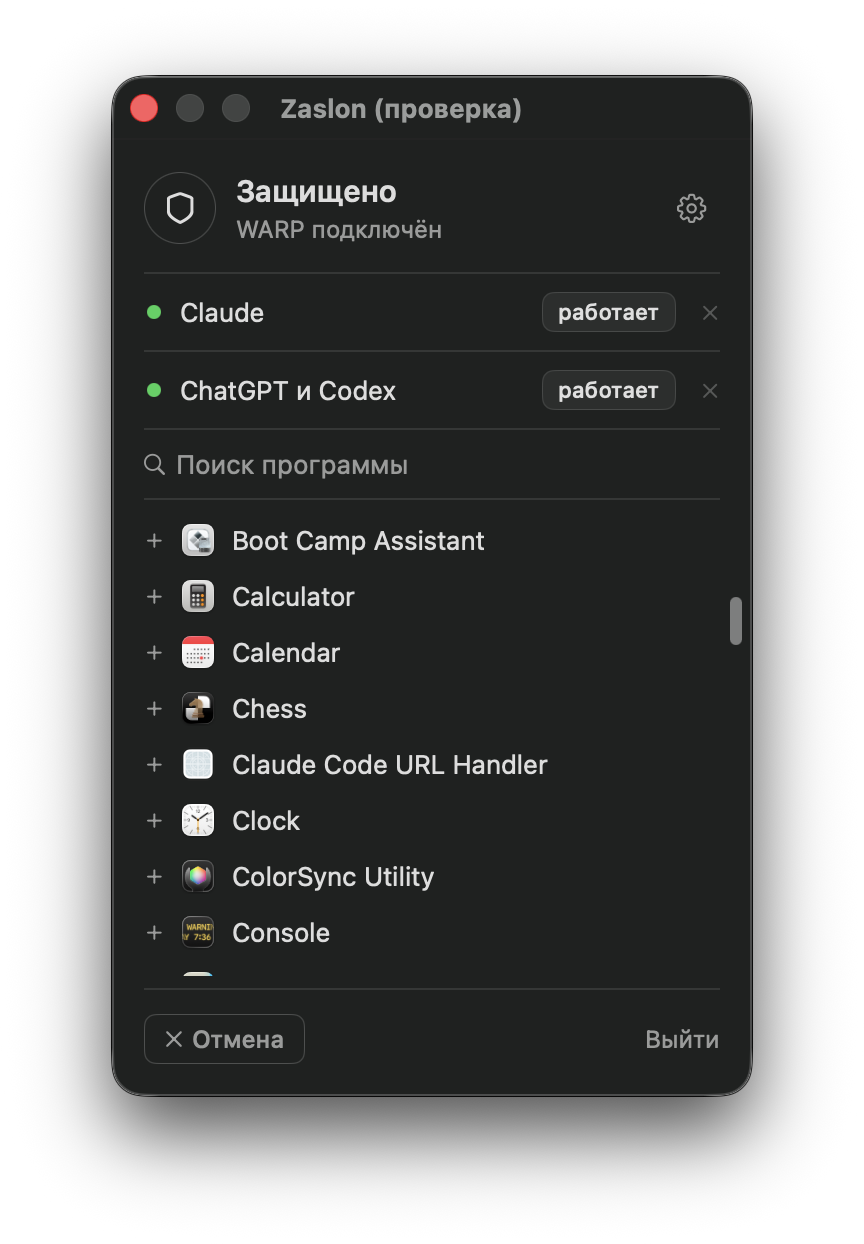
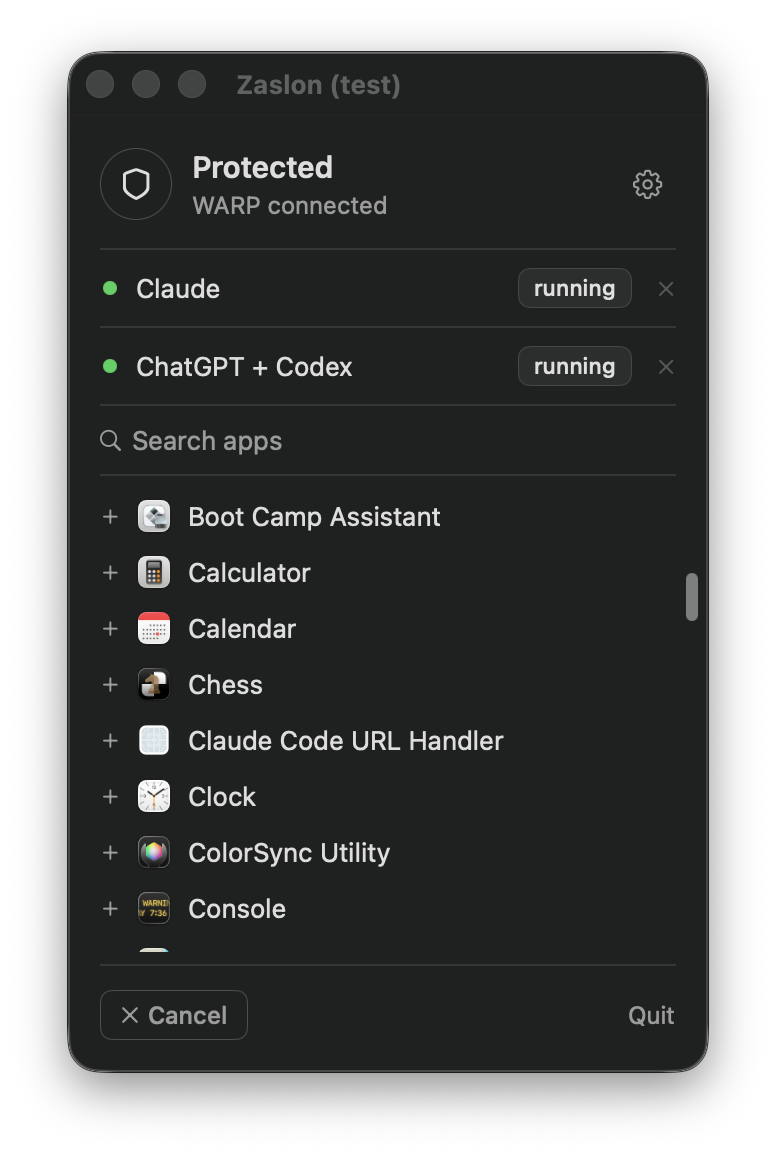
Add English and Russian, statuses from real connections, gear settings (#1)
* Add English and Russian, statuses from real connections, gear settings

- Language: English or Russian, chosen in the settings; starts from the system language.
- One status per app, read from its open connections: running, outside VPN, not working.
- The gate rule is written when ChatGPT or Claude is added and removed with the entry.
- Settings behind a gear; the switch is drawn by hand so it looks the same in both themes.
- README: English interface, every state pictured in the light and the dark theme.

* Keep the hand-drawn switch reachable from the keyboard

The switch is a button now, so keyboard focus and Space flip it, and it
is presented to assistive tools as an ordinary switch.

* Give the default ChatGPT entry a name that needs no translation

The name was translated once, when the entry was created, and then saved,
so it stayed in the old language after a switch. It is "ChatGPT + Codex" now.

---------

Changed region(s): [[0.0619, 0.0311, 0.9278, 0.9654], [0.6495, 0.218, 0.8041, 0.3426], [0.7423, 0.8097, 0.8351, 0.8408]]

diff --git a/Sources/Zaslon/App.swift b/Sources/Zaslon/App.swift
@@ -81,12 +81,15 @@ func relaunchSoon() {
     if bench { watchStalls() }
     let catalog = Catalog.shared
     catalog.refresh()
+    if let ui = ProcessInfo.processInfo.environment["UI"] { Lang.shared.code = ui } // UI=en|ru: the language of the test window, not saved
     let g = Guard(live: false)
     g.signal = { _, _ in }
     g.update(true)
-    let window = NSWindow(contentViewController: NSHostingController(rootView: Panel(g: g)))
+    let content = NSHostingController(rootView: Panel(g: g))
+    // For a picture the window must look the same on every run, so it never becomes the active one.
+    let window = ProcessInfo.processInfo.environment["SHOT"] != nil ? Still(contentViewController: content) : NSWindow(contentViewController: content)
     window.styleMask = [.titled, .closable]
-    window.title = "Zaslon (проверка)"
+    window.title = t("Zaslon (проверка)", "Zaslon (test)")
     window.setFrameTopLeftPoint(NSPoint(x: 60, y: (NSScreen.main?.visibleFrame.maxY ?? 800) - 60))
     window.orderFrontRegardless()
     func scrollView(in view: NSView) -> NSScrollView? { view as? NSScrollView ?? view.subviews.lazy.compactMap(scrollView).first }
@@ -116,7 +119,7 @@ func relaunchSoon() {
             after(2.6) { withAnimation(.snappy(duration: 0.3)) { g.enabled = true } }
         }
         Chip.showHover = env["HOVER"] != nil
-        Gate.shared.look()
+        Gate.shared.ruled = Set(Gate.services.map(\.app)) // the test window shows the normal state, not this Mac's facts of the moment
         if mode == "--picker" {
             catalog.picking = true
             after(1.5) { scroll(400) }
@@ -211,17 +214,17 @@ func watchStalls() {
 
 final class Delegate: NSObject, NSApplicationDelegate {
     func applicationDidFinishLaunching(_: Notification) {
-        Catalog.shared.keepAutostart() // also warms the app list and icons, so the first "Добавить" is instant
+        Catalog.shared.keepAutostart() // also warms the app list and icons, so the first "Add" is instant
         TunnelProxy.shared.start()
         Gate.shared.start()
         Gate.shared.watch()
         guard !UserDefaults.standard.bool(forKey: "askedLogin") else { return }
         UserDefaults.standard.set(true, forKey: "askedLogin")
         let a = NSAlert()
-        a.messageText = "Запускать Zaslon при входе в систему?"
-        a.informativeText = "Без автозапуска защита не работает, пока вы не откроете программу сами. Поменять можно в окне программы."
-        a.addButton(withTitle: "Запускать")
-        a.addButton(withTitle: "Не сейчас")
+        a.messageText = t("Запускать Zaslon при входе в систему?", "Start Zaslon at login?")
+        a.informativeText = t("Без автозапуска защита не работает, пока вы не откроете программу сами. Поменять можно в окне программы.", "Without autostart the protection does not work until you open the app yourself. You can change this in the app's window.")
+        a.addButton(withTitle: t("Запускать", "Start at login"))
+        a.addButton(withTitle: t("Не сейчас", "Not now"))
         NSApp.activate(ignoringOtherApps: true)
         if a.runModal() == .alertFirstButtonReturn { Catalog.shared.setLogin(true) }
     }
@@ -538,6 +541,45 @@ struct SoftTrack: NSViewRepresentable {
 
 let corner: CGFloat = 6 // one rounding for every button and row
 
+/// The system's small switch, drawn by hand. The system one turns grey whenever its window is not the active one,
+/// so it looked switched off in pictures and differed between themes.
+struct Switch: ToggleStyle {
+    func makeBody(configuration: Configuration) -> some View {
+        // A button, so keyboard focus and Space still flip it; to VoiceOver it stays an ordinary switch.
+        Button { configuration.isOn.toggle() } label: {
+            Capsule().fill(configuration.isOn ? Color.green : Color.primary.opacity(0.18))
+                .frame(width: 32, height: 18)
+                .overlay(alignment: configuration.isOn ? .trailing : .leading) {
+                    Circle().fill(.white).shadow(color: .black.opacity(0.25), radius: 1, y: 0.5).padding(2)
+                }
+                .animation(.snappy(duration: 0.18), value: configuration.isOn)
+                .contentShape(Capsule())
+        }
+        .buttonStyle(.plain)
+        .accessibilityRepresentation { Toggle(isOn: configuration.$isOn) { configuration.label } }
+    }
+}
+
+/// A window that never becomes active: pictures of it come out the same whatever else is on screen.
+final class Still: NSWindow {
+    override var canBecomeKey: Bool { false }
+    override var canBecomeMain: Bool { false }
+}
+
+/// The interface language: Russian or English. Every string is written in place, as `t("русский", "English")`.
+final class Lang: ObservableObject {
+    static let shared = Lang()
+    /// Starts from the system language; a choice made in the settings is remembered.
+    @Published var code = UserDefaults.standard.string(forKey: "language") ?? (Locale.preferredLanguages.first?.hasPrefix("ru") == true ? "ru" : "en")
+
+    func choose(_ code: String) {
+        self.code = code
+        UserDefaults.standard.set(code, forKey: "language")
+    }
+}
+
+func t(_ ru: String, _ en: String) -> String { Lang.shared.code == "ru" ? ru : en }
+
 /// The shared look of a button or row: a rounded box that fills in under the mouse.
 struct Chip: ViewModifier {
     static var showHover = false // HOVER=1 in the test window, to take a picture of the hover look
@@ -624,11 +666,12 @@ struct ShieldButton: View {
 
 struct QuitButton: View {
     let action: () -> Void
+    @ObservedObject private var lang = Lang.shared
     @State private var hover = false
 
     var body: some View {
         Button(action: action) {
-            Text("Выйти").foregroundStyle(hover ? Color.red : .secondary).padding(.vertical, 5).contentShape(Rectangle())
+            Text(t("Выйти", "Quit")).foregroundStyle(hover ? Color.red : .secondary).padding(.vertical, 5).contentShape(Rectangle())
         }
         .buttonStyle(.plain).onHover { hover = $0 }
     }
@@ -655,6 +698,7 @@ struct Panel: View {
     @ObservedObject var g: Guard
     @ObservedObject var catalog: Catalog
     @ObservedObject var gate = Gate.shared
+    @ObservedObject var lang = Lang.shared // every string below is read again when the language changes
     @State private var settings = ProcessInfo.processInfo.environment["GEAR"] != nil // GEAR=1: open in the test window
     @FocusState private var searching: Bool
 
@@ -666,7 +710,7 @@ struct Panel: View {
     var body: some View {
         VStack(alignment: .leading, spacing: 0) {
             HStack(spacing: 10) {
-                ShieldButton(g: g).help(g.enabled ? "Выключить защиту" : "Включить защиту")
+                ShieldButton(g: g).help(g.enabled ? t("Выключить защиту", "Switch protection off") : t("Включить защиту", "Switch protection on"))
                 VStack(alignment: .leading, spacing: 2) {
                     Text(title).font(.system(size: 15, weight: .semibold)).contentTransition(.opacity)
                     HStack(spacing: 0) {
@@ -681,7 +725,7 @@ struct Panel: View {
                         .foregroundStyle(settings ? HierarchicalShapeStyle.primary : .secondary)
                         .frame(width: 28, height: 28).modifier(Chip())
                 }
-                .buttonStyle(.plain).help(settings ? "Скрыть настройки" : "Настройки")
+                .buttonStyle(.plain).help(settings ? t("Скрыть настройки", "Hide settings") : t("Настройки", "Settings"))
             }
             .padding(.bottom, 14)
             Divider()
@@ -699,20 +743,20 @@ struct Panel: View {
                         .frame(width: 7, height: 7).frame(width: 10)
                     Text(e.name).font(.system(size: 13))
                     Spacer()
-                    StatusPill(text: off ? "выключена" : unruled ? "не работает" : !up ? "не запущен" : g.freezing ? "на паузе" : past ? "мимо VPN" : "работает") {
+                    StatusPill(text: off ? t("выключена", "off") : unruled ? t("не работает", "not working") : !up ? t("не запущен", "not running") : g.freezing ? t("на паузе", "frozen") : past ? t("мимо VPN", "outside VPN") : t("работает", "running")) {
                         if let service, unruled, !off {
                             gate.setRules(true, app: service) // asks for the admin password
                         } else if let i = g.entries.firstIndex(where: { $0.id == e.id }) {
                             g.entries[i].off = !off
                         }
                     }
-                    .help(off ? "Включить защиту для этой программы" : unruled ? "Серверы этой программы ещё не закрыты воротами VPN. Нажмите и введите пароль администратора." : "Выключить защиту для этой программы")
+                    .help(off ? t("Включить защиту для этой программы", "Switch protection on for this app") : unruled ? t("Серверы этой программы ещё не закрыты воротами VPN. Нажмите и введите пароль администратора.", "This app's servers are not behind the VPN gate yet. Click and enter the admin password.") : t("Выключить защиту для этой программы", "Switch protection off for this app"))
                     RemoveButton {
                         let drop = { g.entries.removeAll { $0.id == e.id } }
                         // The gate's rule leaves with the entry; if the password is refused, both stay.
                         if let service, gate.ruled.contains(service) { gate.setRules(false, app: service) { if $0 { drop() } } } else { drop() }
                     }
-                    .help("Убрать из списка")
+                    .help(t("Убрать из списка", "Remove from the list"))
                 }
                 .padding(.vertical, 9)
                 Divider()
@@ -720,10 +764,27 @@ struct Panel: View {
             // Behind the gear: the settings.
             if settings {
                 HStack(spacing: 8) {
-                    Text("Запускать при входе").font(.system(size: 13))
+                    Text(t("Запускать при входе", "Launch at login")).font(.system(size: 13))
                     Spacer()
-                    Toggle("Запускать при входе", isOn: Binding(get: { catalog.login }, set: { catalog.setLogin($0) }))
-                        .labelsHidden().toggleStyle(.switch).controlSize(.small).tint(.green)
+                    Toggle(t("Запускать при входе", "Launch at login"), isOn: Binding(get: { catalog.login }, set: { catalog.setLogin($0) }))
+                        .labelsHidden().toggleStyle(Switch())
+                }
+                .padding(.vertical, 8)
+                Divider()
+                HStack(spacing: 8) {
+                    Text(t("Язык", "Language")).font(.system(size: 13))
+                    Spacer()
+                    // Two plain chips, not a system control: they look the same in both themes and in an inactive window.
+                    HStack(spacing: 4) {
+                        ForEach([("ru", "Русский"), ("en", "English")], id: \.0) { code, name in
+                            Button { lang.choose(code) } label: {
+                                Text(name).font(.system(size: 11, weight: .medium)).padding(.horizontal, 8).padding(.vertical, 3)
+                                    .foregroundStyle(lang.code == code ? HierarchicalShapeStyle.primary : .tertiary)
+                                    .modifier(Chip(rest: lang.code == code ? 0.1 : 0, outline: lang.code == code ? 0.2 : 0.1))
+                            }
+                            .buttonStyle(.plain)
+                        }
+                    }
                 }
                 .padding(.vertical, 8)
                 Divider()
@@ -737,7 +798,7 @@ struct Panel: View {
             VStack(spacing: 0) {
                 HStack(spacing: 6) {
                     Image(systemName: "magnifyingglass").font(.system(size: 11)).foregroundStyle(.secondary).frame(width: 10)
-                    TextField("Поиск программы", text: $catalog.query).textFieldStyle(.plain).font(.system(size: 13)).focused($searching)
+                    TextField(t("Поиск программы", "Search apps"), text: $catalog.query).textFieldStyle(.plain).font(.system(size: 13)).focused($searching)
                 }
                 .padding(.vertical, 9).padding(edge)
                 Divider().padding(edge)
@@ -763,7 +824,7 @@ struct Panel: View {
                 .frame(height: 232)
                 .overlay {
                     if shown.isEmpty {
-                        Text(catalog.apps.isEmpty ? "Загружаю список" : "Ничего не найдено").font(.system(size: 12)).foregroundStyle(.secondary)
+                        Text(catalog.apps.isEmpty ? t("Загружаю список", "Loading the list") : t("Ничего не найдено", "Nothing found")).font(.system(size: 12)).foregroundStyle(.secondary)
                     }
                 }
                 .padding(.vertical, 6)
@@ -781,7 +842,7 @@ struct Panel: View {
                 } label: {
                     HStack(spacing: 4) { // tighter than a Label, which leaves the text far from the icon
                         Image(systemName: catalog.picking ? "xmark" : "plus").font(.system(size: 10, weight: .medium))
-                        Text(catalog.picking ? "Отмена" : "Добавить")
+                        Text(catalog.picking ? t("Отмена", "Cancel") : t("Добавить", "Add"))
                     }
                     .font(.system(size: 12, weight: .medium))
                     .fixedSize().padding(.horizontal, 10).padding(.vertical, 5)
@@ -801,19 +862,19 @@ struct Panel: View {
     }
 
     var title: String {
-        if !g.enabled { return "Защита на паузе" }
+        if !g.enabled { return t("Защита на паузе", "Protection paused") }
         switch g.protected {
-        case nil: return "Проверяю"
-        case true?: return "Защищено"
-        case false?: return "Заморожено"
+        case nil: return t("Проверяю", "Checking")
+        case true?: return t("Защищено", "Protected")
+        case false?: return t("Заморожено", "Frozen")
         }
     }
 
     var subtitle: String {
         switch g.protected {
-        case nil: return "Спрашиваю WARP"
-        case true?: return "WARP подключён"
-        case false?: return g.freezing ? "WARP отключён, " : "WARP отключён, программы работают"
+        case nil: return t("Спрашиваю WARP", "Asking WARP")
+        case true?: return t("WARP подключён", "WARP connected")
+        case false?: return g.freezing ? t("WARP отключён, ", "WARP disconnected, ") : t("WARP отключён, программы работают", "WARP disconnected, apps are running")
         }
     }
 

diff --git a/Sources/Zaslon/Guard.swift b/Sources/Zaslon/Guard.swift
@@ -20,7 +20,7 @@ struct Entry: Codable, Identifiable, Equatable {
 
     static let defaults = [
         Entry(name: "Claude", matches: ["/Applications/Claude.app", "claude"]),
-        Entry(name: "ChatGPT и Codex", matches: ["/Applications/ChatGPT.app", "codex"]),
+        Entry(name: "ChatGPT + Codex", matches: ["/Applications/ChatGPT.app", "codex"]),
     ]
 }
 
@@ -440,9 +440,16 @@ func cover(matches: [String]) {
     let pids = tree(of: Entry(name: "", matches: matches), in: procs)
     for proc in procs where pids.contains(proc.pid) { print(proc.pid, "parent", proc.ppid, proc.path.isEmpty ? "(file gone) " + proc.origin : proc.path) }
     print("\(pids.count) processes")
-    let (links, inside) = (pids.flatMap { connections($0) }, tunnelAddresses())
-    var count: [String: Int] = [:]
-    for link in links { count[(outside(local: link.local, remote: link.remote, tunnel: inside) ? "OUTSIDE the VPN  " : "") + link.local + " -> " + link.remote, default: 0] += 1 }
+    let inside = tunnelAddresses()
+    var (links, count) = (0, [String: Int]())
+    for proc in procs where pids.contains(proc.pid) {
+        for link in connections(proc.pid) {
+            links += 1
+            // An outside connection is named with its process: that is the one to look at.
+            let out = link.local != "0.0.0.0" && link.local != "::" && outside(local: link.local, remote: link.remote, tunnel: inside)
+            count[(out ? "OUTSIDE the VPN  " : "") + link.local + " -> " + link.remote + (out ? "  [\(proc.pid) \((proc.path as NSString).lastPathComponent)]" : ""), default: 0] += 1
+        }
+    }
     for (line, n) in count.sorted(by: { $0.value > $1.value }) { print(String(format: "%4d  ", n) + line) }
-    print("\(links.count) connections, tunnel addresses: \(inside.sorted().joined(separator: ", "))")
+    print("\(links) connections, tunnel addresses: \(inside.sorted().joined(separator: ", "))")
 }

diff --git a/Sources/Zaslon/Gate.swift b/Sources/Zaslon/Gate.swift
@@ -170,7 +170,7 @@ final class Gate: ObservableObject {
         let quoted = shell.replacingOccurrences(of: "\\", with: "\\\\").replacingOccurrences(of: "\"", with: "\\\"")
         let ask = Process()
         ask.executableURL = URL(fileURLWithPath: "/usr/bin/osascript")
-        ask.arguments = ["-e", "do shell script \"\(quoted)\"" + (admin ? " with prompt \"Zaslon меняет правило DNS для ворот VPN.\" with administrator privileges" : "")]
+        ask.arguments = ["-e", "do shell script \"\(quoted)\"" + (admin ? " with prompt \"\(t("Zaslon меняет правило DNS для ворот VPN.", "Zaslon is changing the DNS rule of the VPN gate."))\" with administrator privileges" : "")]
         ask.terminationHandler = { _ in then() }
         try? ask.run()
         return ask
@@ -304,7 +304,9 @@ func connections(_ pid: pid_t) -> [(local: String, remote: String)] {
         var text = [CChar](repeating: 0, count: Int(INET6_ADDRSTRLEN))
         func name(_ address: UnsafeMutableRawPointer, _ v4: Bool) -> String {
             inet_ntop(v4 ? AF_INET : AF_INET6, v4 ? address + 12 : address, &text, socklen_t(text.count)) // IPv4 sits in the last 4 of the 16 bytes
-            return String(cString: text)
+            // An IPv4 connection on an IPv6 socket reads as "::1.2.3.4" or "::ffff:1.2.3.4": keep the IPv4 part.
+            let read = String(cString: text)
+            return read.contains(".") ? String(read.split(separator: ":").last ?? "") : read
         }
         let v4 = ends.insi_vflag & UInt8(INI_IPV4) != 0
         let local = withUnsafeMutablePointer(to: &ends.insi_laddr) { name(UnsafeMutableRawPointer($0), v4) }

diff --git a/README.md b/README.md
@@ -12,7 +12,7 @@ If the VPN is not there, ChatGPT and Claude cannot reach their servers at all, a
 
 *Zaslon* (заслон) is Russian for "barrier". It is a small menu bar app, written in Swift and SwiftUI, with no dependencies. It was built for a setup where the VPN must always be on and nothing an AI app sends may leave the Mac outside of it.
 
-> Zaslon works with **Cloudflare WARP** only. The interface is in **Russian**; this page translates every label.
+> Zaslon works with **Cloudflare WARP** only. The interface comes in English and Russian.
 
 ## What it does
 
@@ -91,41 +91,44 @@ Not every program obeys proxy settings. In the tests, the ChatGPT app's computer
 
 ## The window
 
-<p align="center">
-  <img src="docs/frozen-dark.png" width="380" alt="The VPN is down: apps are frozen">
-  <img src="docs/paused-light.png" width="380" alt="Protection switched off">
-</p>
-<p align="center">
-  <img src="docs/picker-dark.png" width="380" alt="Adding an app">
-  <img src="docs/settings-light.png" width="380" alt="Settings">
-</p>
+Every state, in the light and the dark theme.
 
-| On screen | Meaning |
+| | Light | Dark |
+|---|---|---|
+| **Protected** | <img src="docs/main-light.png" width="330" alt="Protected, light"> | <img src="docs/main-dark.png" width="330" alt="Protected, dark"> |
+| **The VPN is down** | <img src="docs/frozen-light.png" width="330" alt="Frozen, light"> | <img src="docs/frozen-dark.png" width="330" alt="Frozen, dark"> |
+| **Protection switched off** | <img src="docs/paused-light.png" width="330" alt="Paused, light"> | <img src="docs/paused-dark.png" width="330" alt="Paused, dark"> |
+| **Settings** | <img src="docs/settings-light.png" width="330" alt="Settings, light"> | <img src="docs/settings-dark.png" width="330" alt="Settings, dark"> |
+| **Adding an app** | <img src="docs/picker-light.png" width="330" alt="Adding an app, light"> | <img src="docs/picker-dark.png" width="330" alt="Adding an app, dark"> |
+
+The header says what is going on:
+
+| Header | Meaning |
 |---|---|
-| **Защищено** · WARP подключён | Protected. WARP is connected. |
-| **Заморожено** · WARP отключён | Frozen. WARP is down; the timer shows for how long. |
-| **Защита на паузе** | You switched protection off with the shield button. |
-| **Проверяю** | Asking WARP. The list is frozen until it answers. |
+| **Protected** · WARP connected | All is well. |
+| **Frozen** · WARP disconnected | The VPN is down and the apps are stopped; the timer shows for how long. |
+| **Protection paused** | You switched protection off with the shield button. |
+| **Checking** | Asking WARP. The list stays frozen until it answers. |
 
 Each app has one status. It is a measured fact, not a guess from settings: every three seconds Zaslon reads the app's open connections from the kernel.
 
 | Dot | Status | Meaning |
 |---|---|---|
-| green | **работает** | Running. Every connection goes through the VPN. |
-| yellow | **мимо VPN** | ChatGPT or Claude holds a connection to the internet that does not start from the tunnel. |
-| yellow | **на паузе** | Frozen: the VPN is down. |
-| red | **не работает** | ChatGPT or Claude has no gate rule yet. Click the status and enter the admin password. |
-| red | **выключена** | You switched protection off for this app. Click to switch it back on. |
-| hollow | **не запущен** | The app is not running. |
+| green | **running** | Every connection goes through the VPN. |
+| yellow | **outside VPN** | ChatGPT or Claude holds a connection to the internet that does not start from the tunnel. |
+| yellow | **frozen** | Stopped: the VPN is down. |
+| red | **not working** | ChatGPT or Claude has no gate rule yet. Click the status and enter the admin password. |
+| red | **off** | You switched protection off for this app. Click to switch it back on. |
+| hollow | **not running** | The app is not open. |
 
 Controls:
 
 - **Shield button**: switches all protection on and off.
 - **Status button**: switches protection for that one app.
 - **×**: removes the app from the list. For ChatGPT and Claude this also removes the gate rule and asks for the password again.
-- **+ Добавить**: add an app from a searchable list of everything installed. Adding ChatGPT or Claude asks for the admin password; if you refuse, the app is not added.
-- **Gear**: settings. **Запускать при входе** = launch at login.
-- **Выйти**: quit.
+- **+ Add**: add an app from a searchable list of everything installed. Adding ChatGPT or Claude asks for the admin password; if you refuse, the app is not added.
+- **Gear**: settings. **Launch at login**, and **Language**: English or Russian. Zaslon starts in the system's language.
+- **Quit**.
 
 ## Requirements
 
@@ -172,7 +175,7 @@ Everything runs from the binary inside the bundle, `build/Zaslon.app/Contents/Ma
 | `--drill <seconds> <app or name…>` | A fire drill without touching the VPN: freezes the given programs through the real code path, then thaws them. |
 | `--gate <port> <dns port> [interface]` | Runs only the gate on spare ports. |
 | `--proxy <port> [interface]` | Runs only the tunnel proxy. |
-| `--window`, `--picker` | Shows the panel in a normal window. With `SHOT=<file.png>` it saves a picture and quits; `LOOK=light\|dark`, `DROP=1`, `OFF=1` and `GEAR=1` choose the state. |
+| `--window`, `--picker` | Shows the panel in a normal window. With `SHOT=<file.png>` it saves a picture and quits; `LOOK=light\|dark`, `UI=en\|ru`, `DROP=1`, `OFF=1` and `GEAR=1` choose the state. |
 
 ## What was measured
 
@@ -190,7 +193,6 @@ Everything runs from the binary inside the bundle, `build/Zaslon.app/Contents/Ma
 - The freeze has a window of up to 50 ms, and the kernel keeps receiving on open connections.
 - The gate knows two services, at fixed paths: `/Applications/ChatGPT.app` and `/Applications/Claude.app`. The list is in `Gate.swift`.
 - One address per name, IPv4 only. The DNS answerer gives no IPv6 answer, so programs use IPv4.
-- The interface is in Russian.
 - A real per-app firewall is out of reach without a Network Extension.
 
 ## Source
